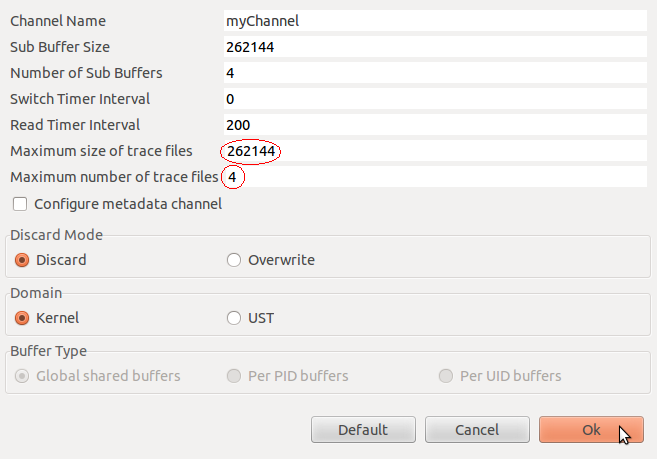
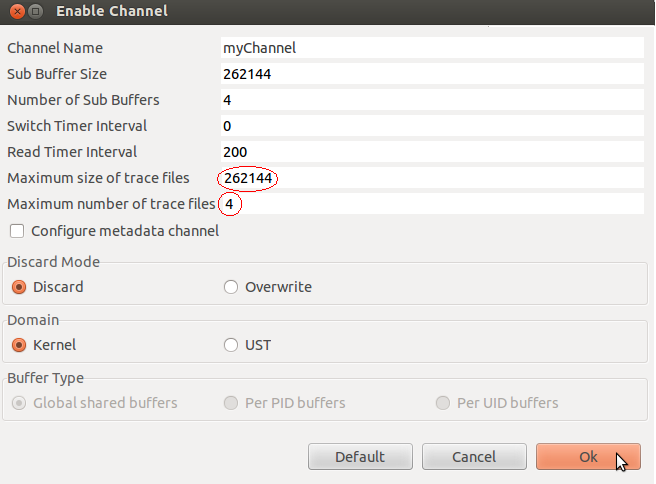
lttng: Fix display of titles of all dialogs of the LTTng Control
IP-Clean: Alexandre Montplaisir <alexmonthy@voxpopuli.im>

diff --git a/lttng/org.eclipse.linuxtools.lttng2.ui/src/org/eclipse/linuxtools/internal/lttng2/ui/views/control/dialogs/ImportConfirmationDialog.java b/lttng/org.eclipse.linuxtools.lttng2.ui/src/org/eclipse/linuxtools/internal/lttng2/ui/views/control/dialogs/ImportConfirmationDialog.java
@@ -83,7 +83,7 @@ public class ImportConfirmationDialog extends Dialog implements IImportConfirmat
      */
     public ImportConfirmationDialog(Shell shell) {
         super(shell);
-        setShellStyle(SWT.RESIZE);
+        setShellStyle(SWT.RESIZE | getShellStyle());
     }
 
     // ------------------------------------------------------------------------

diff --git a/lttng/org.eclipse.linuxtools.lttng2.ui/src/org/eclipse/linuxtools/internal/lttng2/ui/views/control/dialogs/CreateSessionDialog.java b/lttng/org.eclipse.linuxtools.lttng2.ui/src/org/eclipse/linuxtools/internal/lttng2/ui/views/control/dialogs/CreateSessionDialog.java
@@ -228,7 +228,7 @@ public class CreateSessionDialog extends Dialog implements ICreateSessionDialog 
      */
     public CreateSessionDialog(Shell shell) {
         super(shell);
-        setShellStyle(SWT.RESIZE);
+        setShellStyle(SWT.RESIZE | getShellStyle());
     }
 
     // ------------------------------------------------------------------------

diff --git a/lttng/org.eclipse.linuxtools.lttng2.ui/src/org/eclipse/linuxtools/internal/lttng2/ui/views/control/dialogs/NewConnectionDialog.java b/lttng/org.eclipse.linuxtools.lttng2.ui/src/org/eclipse/linuxtools/internal/lttng2/ui/views/control/dialogs/NewConnectionDialog.java
@@ -110,7 +110,7 @@ public class NewConnectionDialog extends Dialog implements INewConnectionDialog 
      */
     public NewConnectionDialog(Shell shell) {
         super(shell);
-        setShellStyle(SWT.RESIZE);
+        setShellStyle(SWT.RESIZE | getShellStyle());
     }
 
     // ------------------------------------------------------------------------

diff --git a/lttng/org.eclipse.linuxtools.lttng2.ui/src/org/eclipse/linuxtools/internal/lttng2/ui/views/control/dialogs/GetEventInfoDialog.java b/lttng/org.eclipse.linuxtools.lttng2.ui/src/org/eclipse/linuxtools/internal/lttng2/ui/views/control/dialogs/GetEventInfoDialog.java
@@ -101,7 +101,7 @@ public class GetEventInfoDialog extends Dialog implements IGetEventInfoDialog {
      */
     public GetEventInfoDialog(Shell shell) {
         super(shell);
-        setShellStyle(SWT.RESIZE);
+        setShellStyle(SWT.RESIZE | getShellStyle());
     }
 
     // ------------------------------------------------------------------------

diff --git a/lttng/org.eclipse.linuxtools.lttng2.ui/src/org/eclipse/linuxtools/internal/lttng2/ui/views/control/dialogs/EnableEventsDialog.java b/lttng/org.eclipse.linuxtools.lttng2.ui/src/org/eclipse/linuxtools/internal/lttng2/ui/views/control/dialogs/EnableEventsDialog.java
@@ -99,7 +99,7 @@ public class EnableEventsDialog extends Dialog implements IEnableEventsDialog  {
      */
     public EnableEventsDialog(Shell shell) {
         super(shell);
-        setShellStyle(SWT.RESIZE);
+        setShellStyle(SWT.RESIZE | getShellStyle());
     }
 
     // ------------------------------------------------------------------------

diff --git a/lttng/org.eclipse.linuxtools.lttng2.ui/src/org/eclipse/linuxtools/internal/lttng2/ui/views/control/dialogs/AddContextDialog.java b/lttng/org.eclipse.linuxtools.lttng2.ui/src/org/eclipse/linuxtools/internal/lttng2/ui/views/control/dialogs/AddContextDialog.java
@@ -81,7 +81,7 @@ public class AddContextDialog extends Dialog implements IAddContextDialog  {
      */
     public AddContextDialog(Shell shell) {
         super(shell);
-        setShellStyle(SWT.RESIZE);
+        setShellStyle(SWT.RESIZE | getShellStyle());
     }
 
     // ------------------------------------------------------------------------

diff --git a/lttng/org.eclipse.linuxtools.lttng2.ui/src/org/eclipse/linuxtools/internal/lttng2/ui/views/control/dialogs/ImportDialog.java b/lttng/org.eclipse.linuxtools.lttng2.ui/src/org/eclipse/linuxtools/internal/lttng2/ui/views/control/dialogs/ImportDialog.java
@@ -129,7 +129,7 @@ public class ImportDialog extends Dialog implements IImportDialog {
      */
     public ImportDialog(Shell shell) {
         super(shell);
-        setShellStyle(SWT.RESIZE);
+        setShellStyle(SWT.RESIZE | getShellStyle());
     }
 
     // ------------------------------------------------------------------------

diff --git a/lttng/org.eclipse.linuxtools.lttng2.ui/src/org/eclipse/linuxtools/internal/lttng2/ui/views/control/dialogs/EnableChannelDialog.java b/lttng/org.eclipse.linuxtools.lttng2.ui/src/org/eclipse/linuxtools/internal/lttng2/ui/views/control/dialogs/EnableChannelDialog.java
@@ -202,7 +202,7 @@ public class EnableChannelDialog extends Dialog implements IEnableChannelDialog 
             }
         };
 
-        setShellStyle(SWT.RESIZE);
+        setShellStyle(SWT.RESIZE | getShellStyle());
     }
 
     // ------------------------------------------------------------------------
